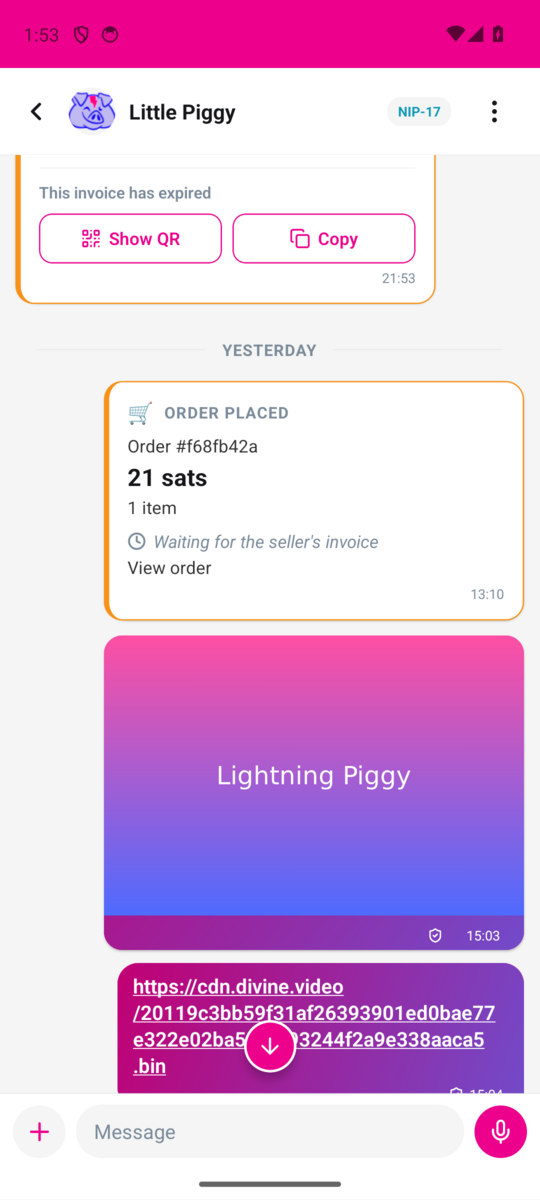
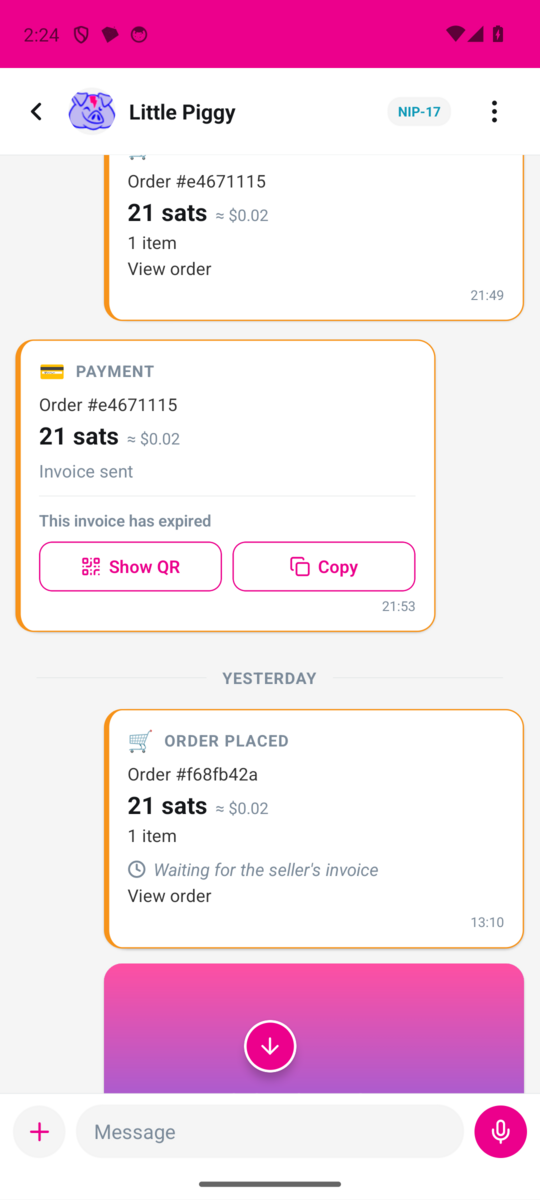
fix: address review findings on #1618

diff --git a/src/components/ConversationMessageRow.test.tsx b/src/components/ConversationMessageRow.test.tsx
@@ -4,6 +4,8 @@ import ConversationMessageRow, { type ConversationMessageRowProps } from './Conv
 import { createConversationScreenStyles } from '../styles/ConversationScreen.styles';
 import { lightPalette } from '../styles/palettes';
 import i18n from '../i18n';
+import { buildMarketOrder } from '../utils/marketOrder';
+import { parseOrderEvent, type OrderEventType } from '../utils/orderEvents';
 import type MessageBubble from './MessageBubble';
 const mockNavigate = jest.fn();
 jest.mock('@react-navigation/native', () => ({
@@ -137,5 +139,48 @@ it.each([false, true])(
         },
       },
     });
+  },
+);
+
+// Exercise the chat row's real order renderer with the existing checkout shape.
+test.each(['order', 'payment', 'status', 'shipping', 'receipt'] as const)(
+  '%s chat rows strip checkout totals and preserve free text',
+  (type: OrderEventType) => {
+    for (const fromMe of [true, false]) {
+      for (const note of ['', 'Please leave at the door.']) {
+        const rumor = buildMarketOrder({
+          buyerPubkey: 'buyer',
+          vendorPubkey: 'seller',
+          orderId: 'f68fb42a',
+          lines: [{ merchantPubkey: 'seller', dTag: 'item', quantity: 1, priceSats: 21 }],
+          shipping: {
+            coordinate: '30406:seller:standard',
+            costSats: 0,
+            title: '[TEST] Standard (free)',
+          },
+          note,
+        }).rumor;
+        // Legacy stored rows may still contain the original generated suffix.
+        const order = { ...parseOrderEvent(rumor)!, type, message: rumor.content };
+        const ui = render(
+          <ConversationMessageRow
+            {...props}
+            item={{ kind: 'order', id: 'checkout', fromMe, createdAt: 100, order }}
+          />,
+        );
+        expect(ui.getByTestId('conversation-order-checkout')).toBeTruthy();
+        expect(ui.getByText('21 sats')).toBeTruthy();
+        expect(ui.queryByText(/Subtotal:|Shipping \(|Total:/)).toBeNull();
+        if (note) {
+          expect(ui.getByTestId('conversation-order-note-checkout')).toHaveTextContent(
+            type === 'order' ? `${i18n.t('sellerOrders.buyerNote')}: ${note}` : note,
+          );
+        } else {
+          expect(ui.queryByTestId('conversation-order-note-checkout')).toBeNull();
+        }
+        expect(order.message).toBe(rumor.content);
+        ui.unmount();
+      }
+    }
   },
 );
